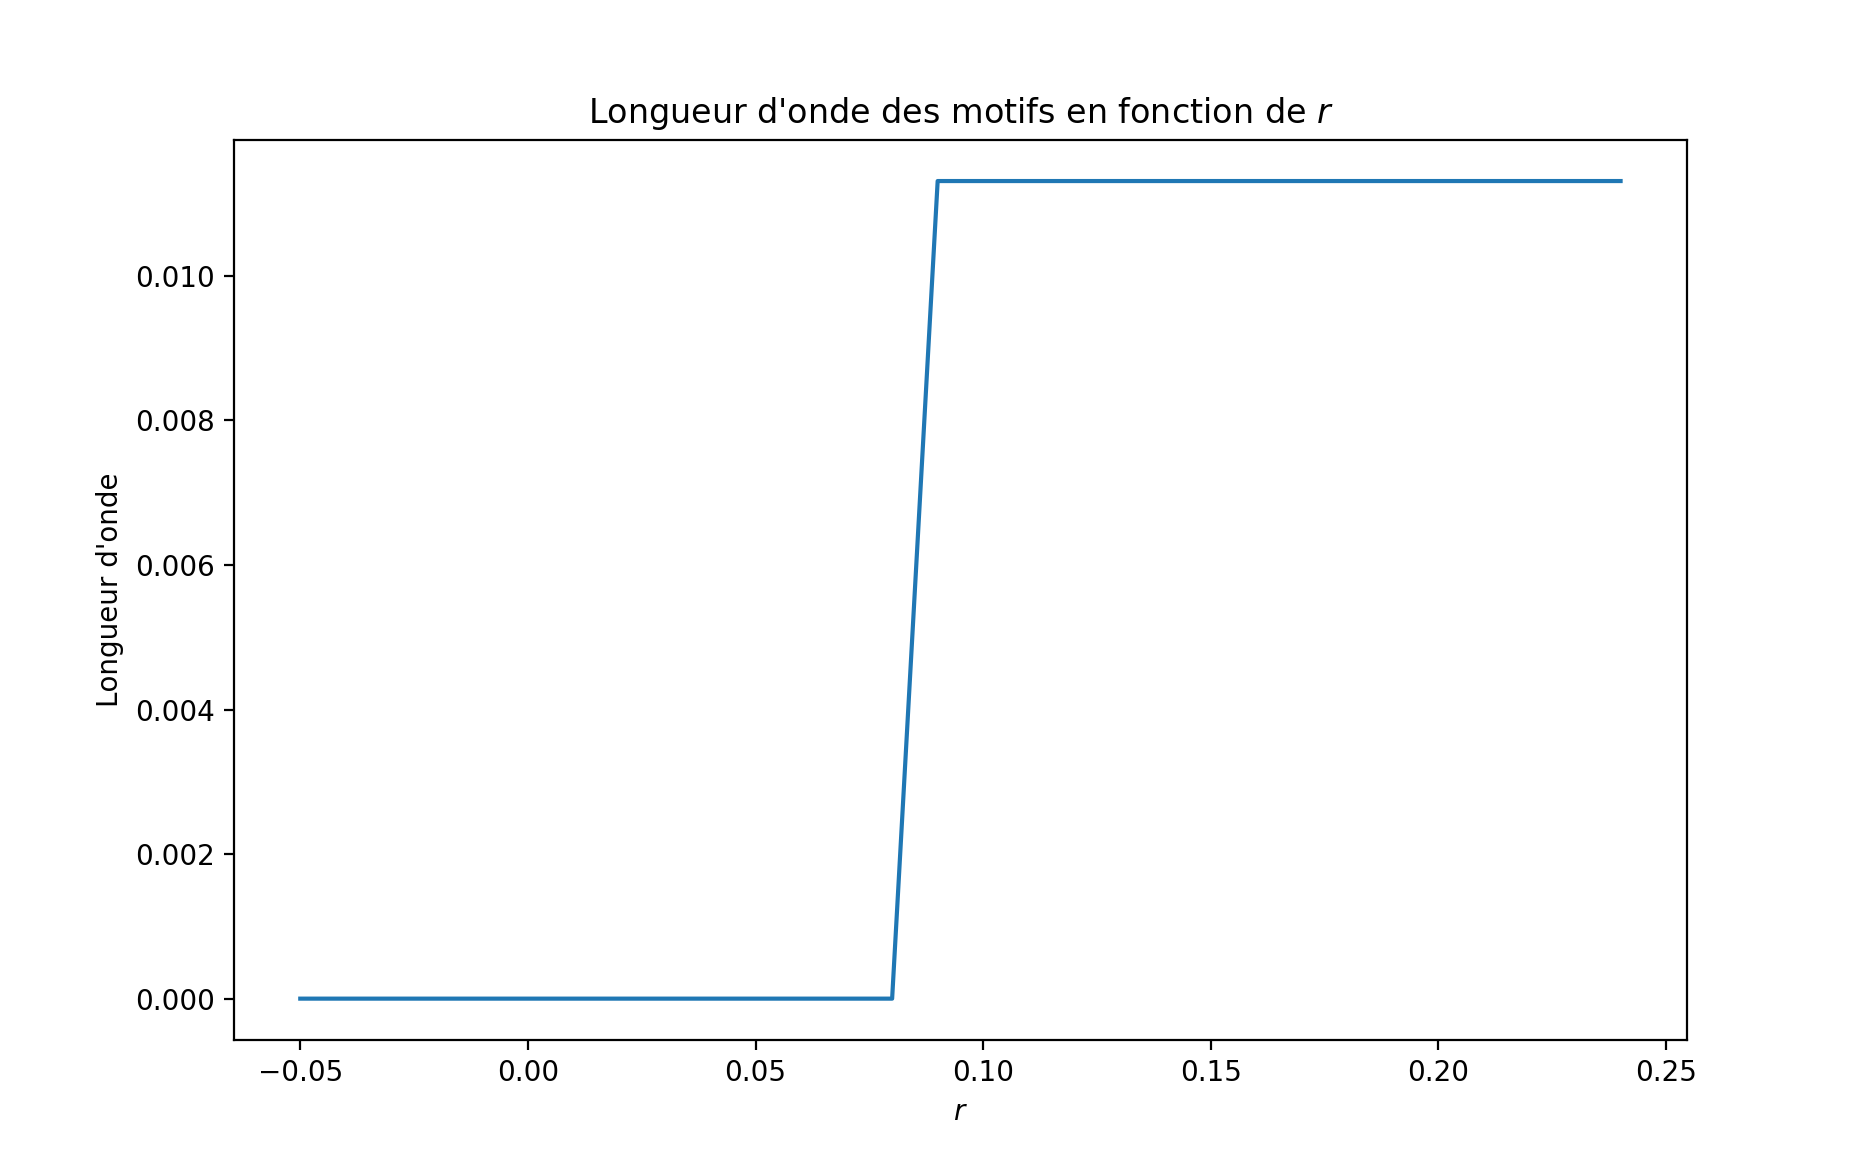
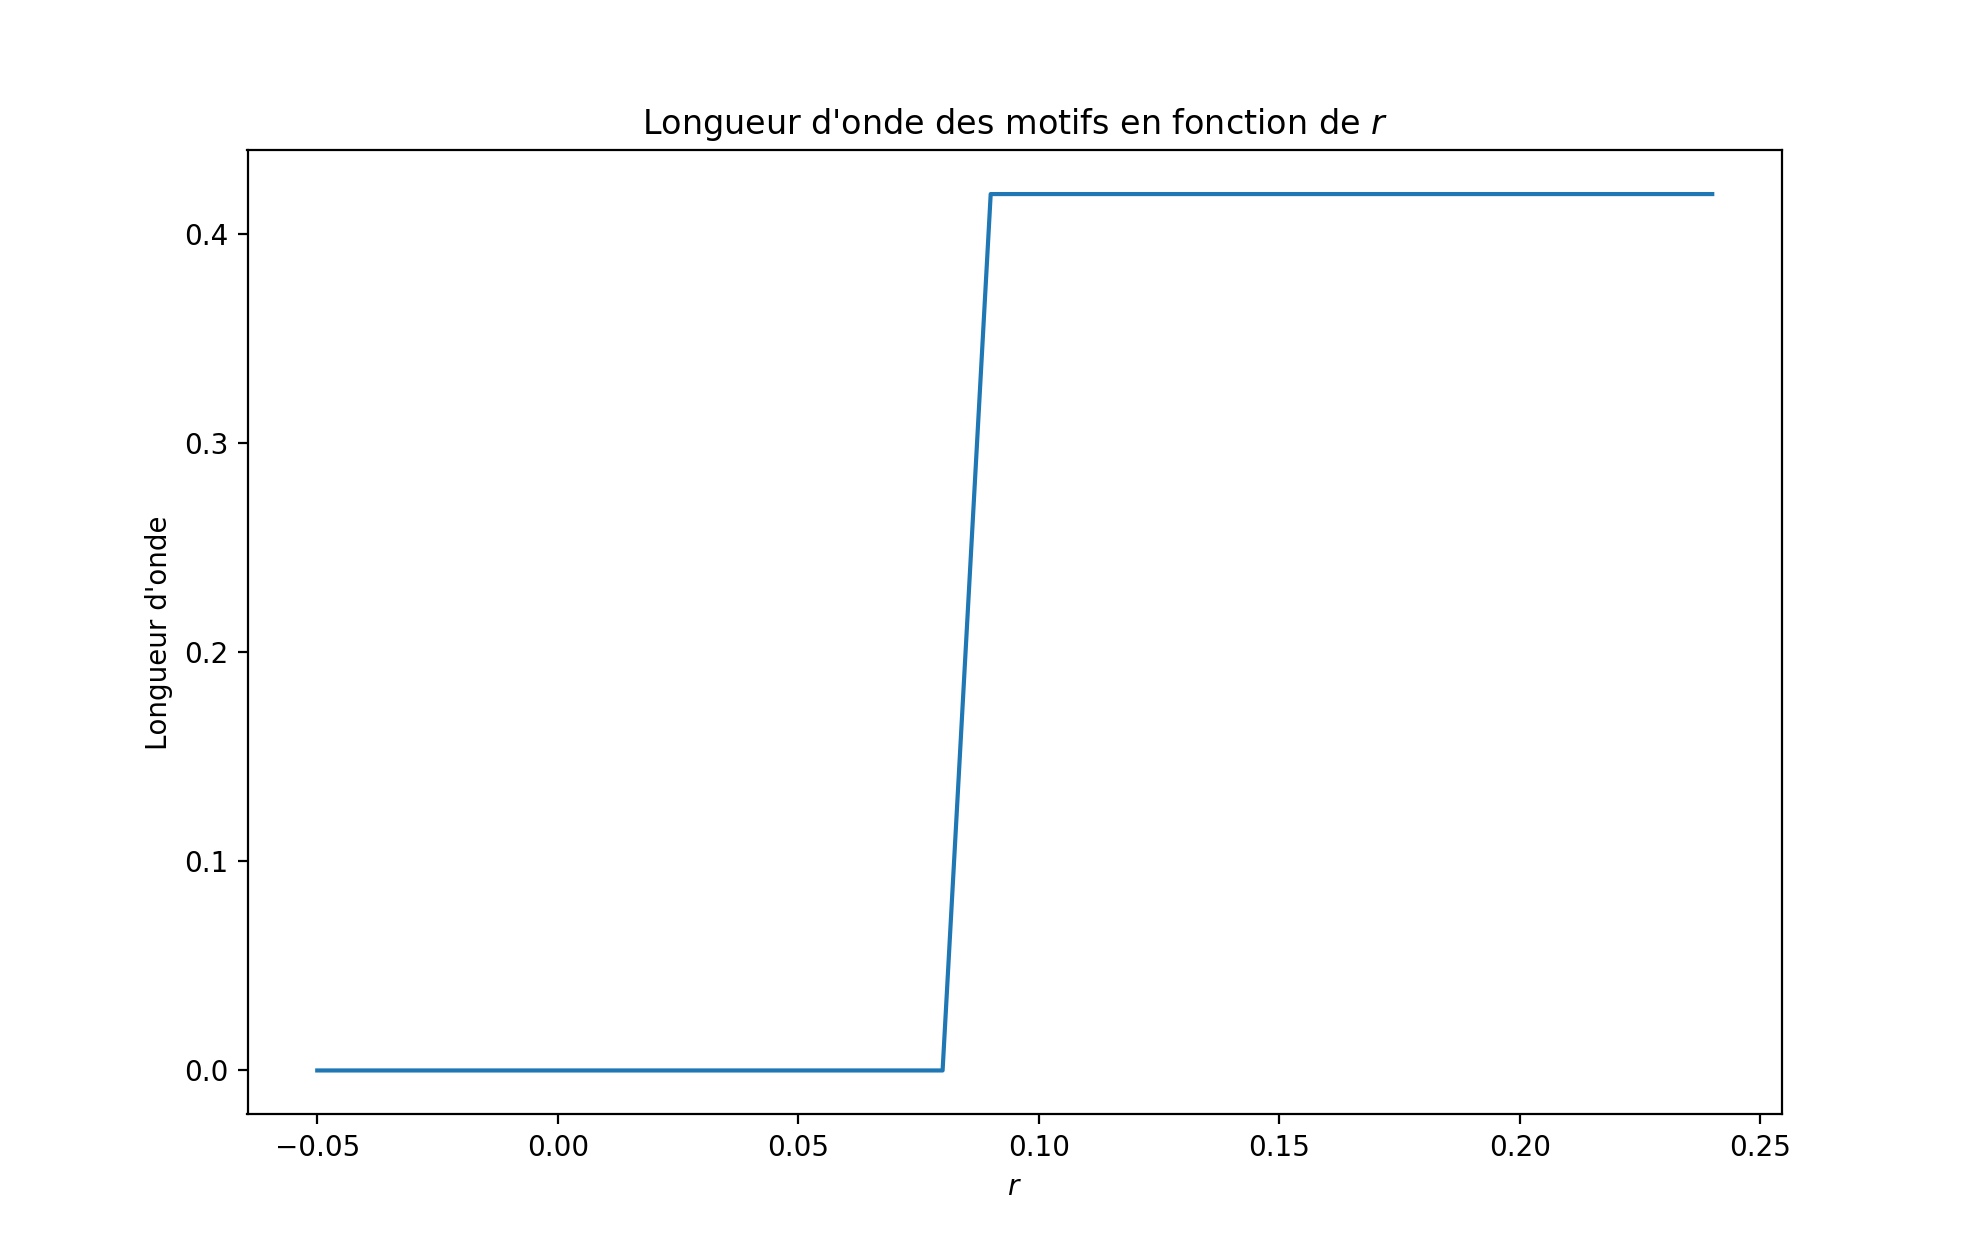
Corr longueurs d'onde

diff --git a/pattern.py b/pattern.py
@@ -132,7 +132,7 @@ def SH(f0,r,L):
 
     return U, x_range, [L, T, h, dt, r, T, M, N]
 
-SH(u_0, 0.2, 100)
+#SH(u_0, 0.2, 100)
 
 ##################################### Ex1 (b), mesure du temps d'apparition des motifs en fonction de r et L #########################
 
@@ -168,7 +168,7 @@ def tl_mesure(f0,r,L):
     seuil = 0.2
     Départ = True
     t_pattern = 0
-    lamb_f = 0
+    lamb_1,lamb_2,lamb_3 = 0,0,0
 
     for j in range(1,M):
         d1 = DFT[:,j-1]
@@ -198,15 +198,24 @@ def tl_mesure(f0,r,L):
                 t_pattern = j*dt
                 # Longueur d'onde
                 ua = np.abs(uk)
-                k_f = abs(ua.tolist().index(max(ua))) + N/36
-                lamb_f = 2*pi/k_f
-
+                us = np.unique(np.sort(ua))
+                #k_f = np.abs(ua.tolist().index(max(ua))) + N/36
+                #k_f = np.array(np.where(ua == max(ua))) - N/2
+                
+                k1 = np.array(np.where(ua == us[-1])) - N/2
+                k2 = np.array(np.where(ua == us[-2])) - N/2
+                k3 = np.array(np.where(ua == us[-3])) - N/2
+                
+                lamb_1 = 2*pi/k1
+                lamb_2 = 2*pi/k2
+                lamb_3 = 2*pi/k3
                 break
+                
         else :
             if Départ :
                 Départ = False
-
-    return t_pattern, lamb_f
+    print(len([t_pattern, np.array([lamb_1,lamb_2,lamb_3])]))
+    return t_pattern, np.array([lamb_1,lamb_2,lamb_3])
 
 
 def rL_effect(u0, r_range, L_range):
@@ -217,7 +226,7 @@ def rL_effect(u0, r_range, L_range):
         for m,L in enumerate(L_range):
             t_,l_ = tl_mesure(u0, r, L)
             time[n,m] = t_
-            wavelength[n,m] = l_
+            wavelength[n,m] = max(l_[0])
 
     plt.imshow(time)
     plt.xlabel("L = {}".format(L_range))
@@ -241,12 +250,16 @@ def rL_effect(u0, r_range, L_range):
 def r_effect(u0, r_range):
     L = 100
     time = np.zeros((len(r_range)))
-    wavelength = np.zeros((len(r_range)))
+    wavelength1 = np.zeros((len(r_range)))
+    wavelength2 = np.zeros((len(r_range)))
+    wavelength3 = np.zeros((len(r_range)))
 
     for n,r in enumerate(r_range):
         t_,l_ = tl_mesure(u0, r, L)
         time[n] = t_
-        wavelength[n] = l_
+        wavelength1[n] = l_[0]
+        wavelength2[n] = l_[1]
+        wavelength3[n] = l_[2]
 
     plt.plot(r_range, time)
     plt.xlabel("$r$")
@@ -255,22 +268,40 @@ def r_effect(u0, r_range):
     plt.show()
     plt.clf()
 
-    plt.plot(r_range, wavelength)
+    plt.plot(r_range, wavelength1)
     plt.xlabel("$r$")
     plt.ylabel("Longueur d'onde")
-    plt.title("Longueur d'onde des motifs en fonction de $r$")
+    plt.title("Longueur d'onde principale des motifs en fonction de $r$")
+    plt.show()
+    plt.clf()
+    
+    plt.plot(r_range, wavelength2)
+    plt.xlabel("$r$")
+    plt.ylabel("Longueur d'onde")
+    plt.title("Longueur d'onde secondaire des motifs en fonction de $r$")
+    plt.show()
+    plt.clf()
+    
+    plt.plot(r_range, wavelength3)
+    plt.xlabel("$r$")
+    plt.ylabel("Longueur d'onde")
+    plt.title("Longueur d'onde tertiaire des motifs en fonction de $r$")
     plt.show()
     plt.clf()
 
 def L_effect(u0, L_range):
     r = 0.2
     time = np.zeros((len(L_range)))
-    wavelength = np.zeros((len(L_range)))
+    wavelength1 = np.zeros((len(L_range)))
+    wavelength2 = np.zeros((len(L_range)))
+    wavelength3 = np.zeros((len(L_range)))
 
     for n,l in enumerate(L_range):
         t_,l_ = tl_mesure(u0, r, l)
         time[n] = t_
-        wavelength[n] = l_
+        wavelength1[n] = l_[0]
+        wavelength2[n] = l_[1]
+        wavelength3[n] = l_[2]
 
     plt.plot(L_range, time)
     plt.xlabel("$L$")
@@ -279,27 +310,43 @@ def L_effect(u0, L_range):
     plt.show()
     plt.clf()
 
-    plt.plot(L_range, wavelength)
+    plt.plot1(L_range, wavelength1)
     plt.xlabel("$L$")
     plt.ylabel("Longueur d'onde")
-    plt.ylim([0,1.1*max(wavelength)])
-    plt.title("Longueur d'onde des motifs en fonction de $L$")
+    plt.ylim([0,1.1*max(wavelength1)])
+    plt.title("Longueur d'onde principale des motifs en fonction de $L$")
+    plt.show()
+    plt.clf()
+    
+    plt.plot1(L_range, wavelength2)
+    plt.xlabel("$L$")
+    plt.ylabel("Longueur d'onde")
+    plt.ylim([0,1.1*max(wavelength2)])
+    plt.title("Longueur d'onde secondaire des motifs en fonction de $L$")
+    plt.show()
+    plt.clf()
+    
+    plt.plot1(L_range, wavelength3)
+    plt.xlabel("$L$")
+    plt.ylabel("Longueur d'onde")
+    plt.ylim([0,1.1*max(wavelength3)])
+    plt.title("Longueur d'onde tertiaire des motifs en fonction de $L$")
     plt.show()
     plt.clf()
 
 
 
 #rL_effect(u_0, np.arange(-0.05,0.25,0.05), [25,50,100,150,200])
-#r_effect(u_0, np.arange(-0.05, 0.25, 0.01))
-#L_effect(u_0, np.arange(30,200, 30))
+r_effect(u_0, np.arange(-0.05, 0.25, 0.01))
+L_effect(u_0, np.arange(30,200, 30))
 
 
 ########################################## Ex2, mesure de A^2 et diagrame de bifurcation##############################################
 
 def A_mesure(f0,r,L):
     N = 1024
-    dt = 0.03
-    T = 800.01
+    dt = 0.02
+    T = 1000.01
     M = int(T/dt) + 1
     h = L/N
 
@@ -351,7 +398,7 @@ def A_mesure(f0,r,L):
 
 def r_bifurcation(u0, r_range):
     integ = np.zeros((len(r_range)))
-    L = 100
+    L = 25
 
     for n,r in enumerate(r_range):
         A_ = A_mesure(u0, r, L)
@@ -384,4 +431,4 @@ def r_bifurcation(u0, r_range):
 
     return integ
 
-#r_bifurcation(u_0, np.arange(-0.01,0.1,0.005))
+r_bifurcation(u_0, np.arange(-0.01,0.07,0.002))
